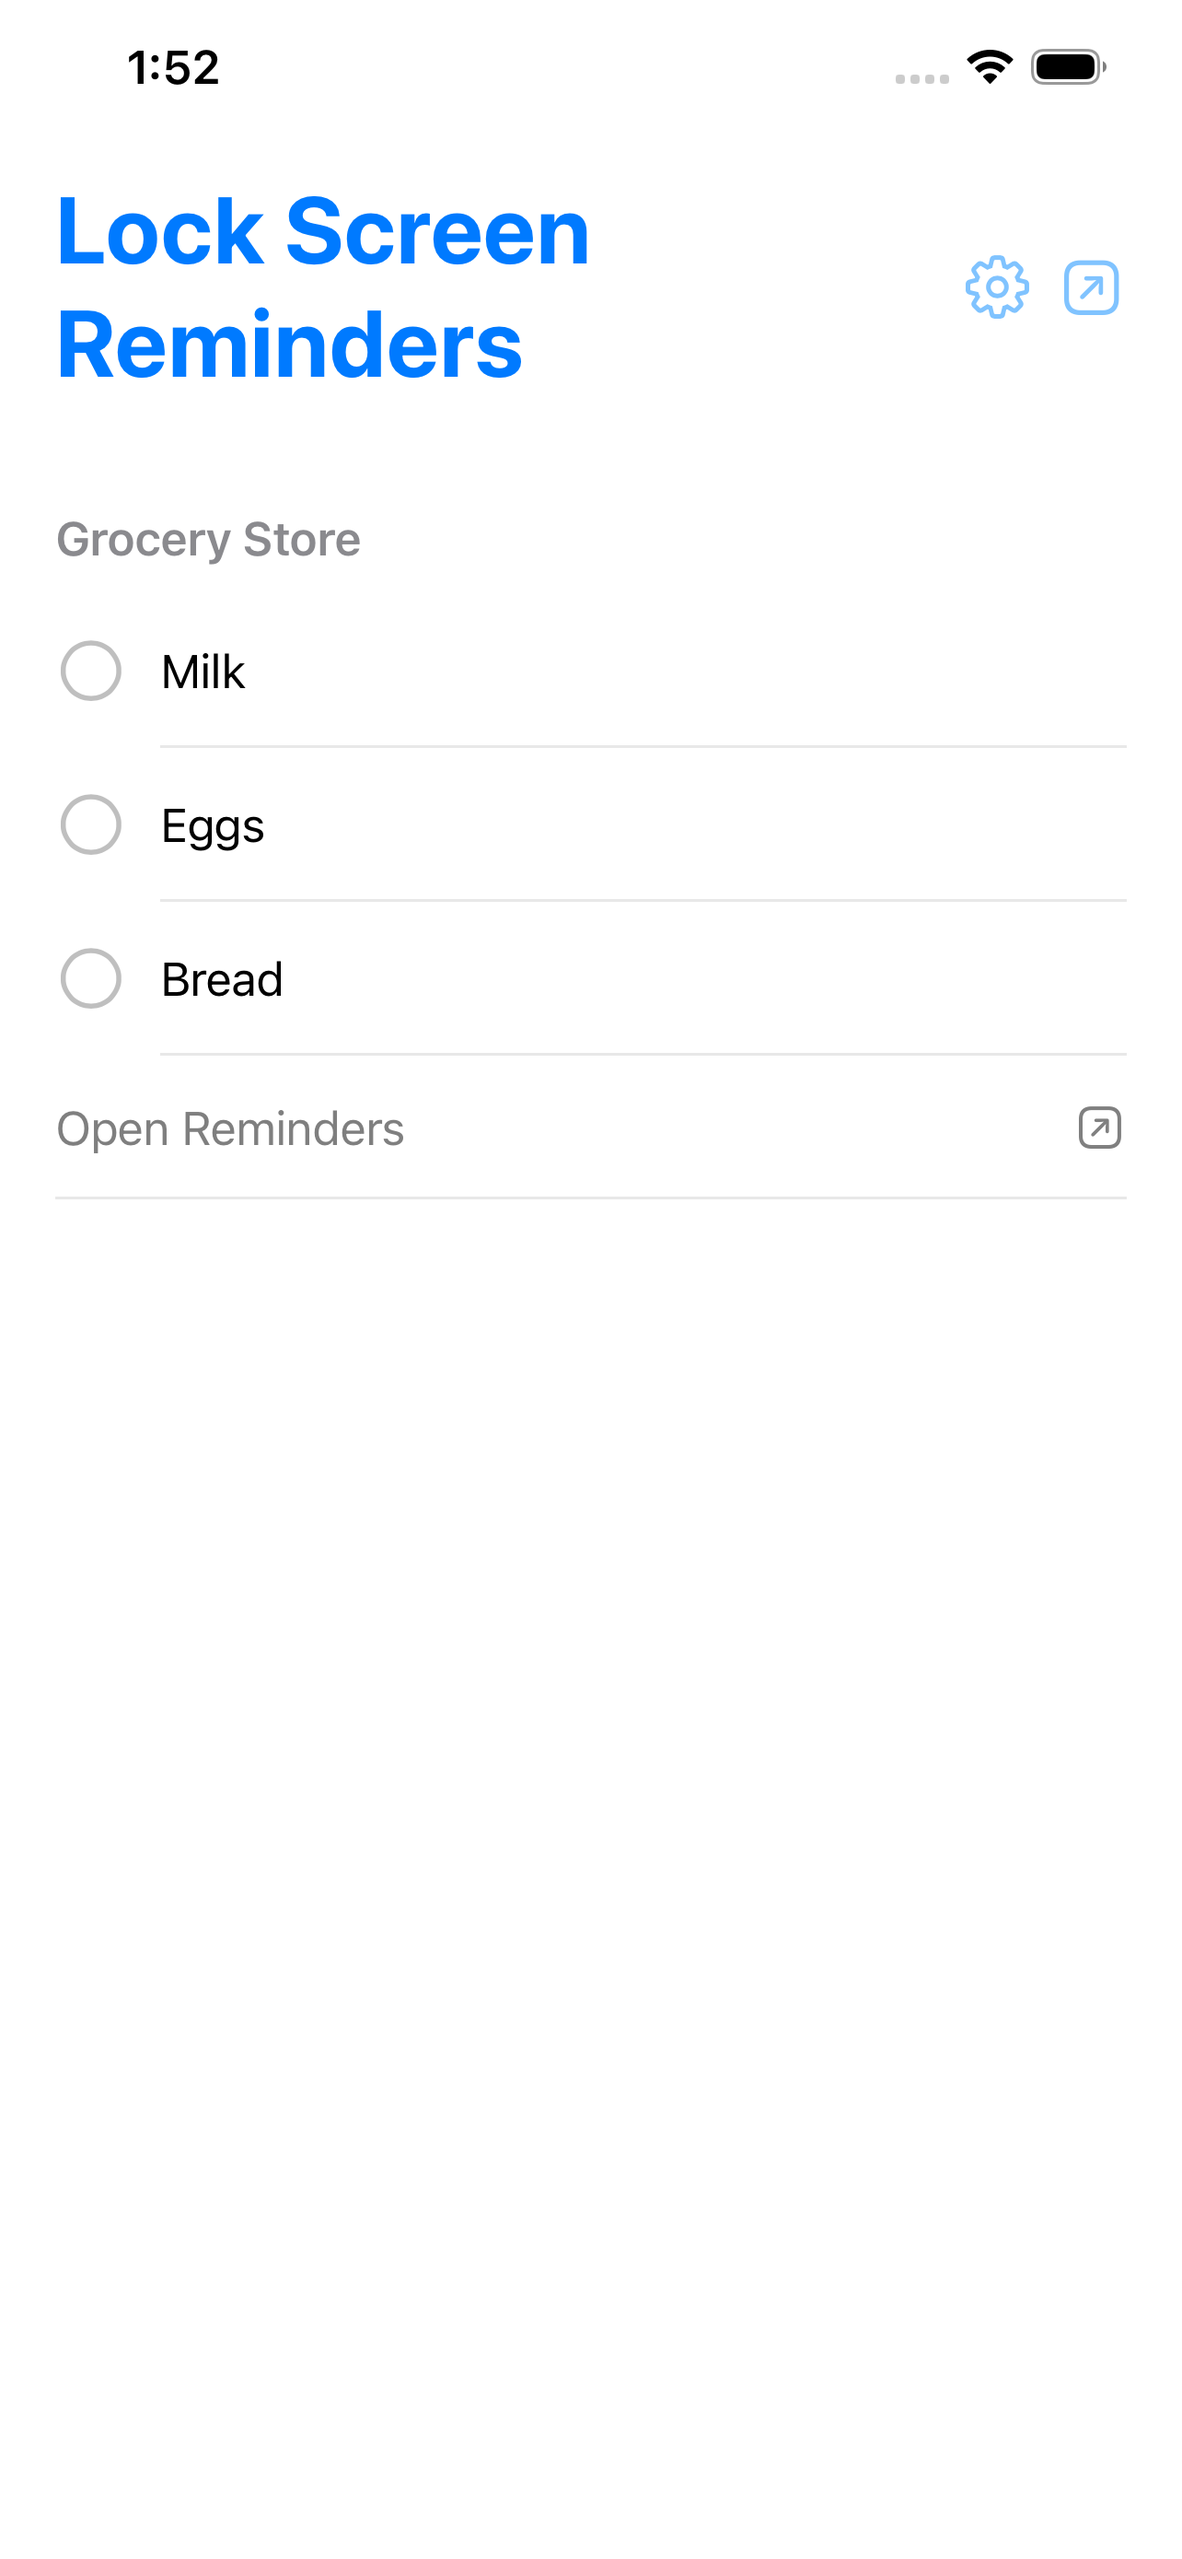
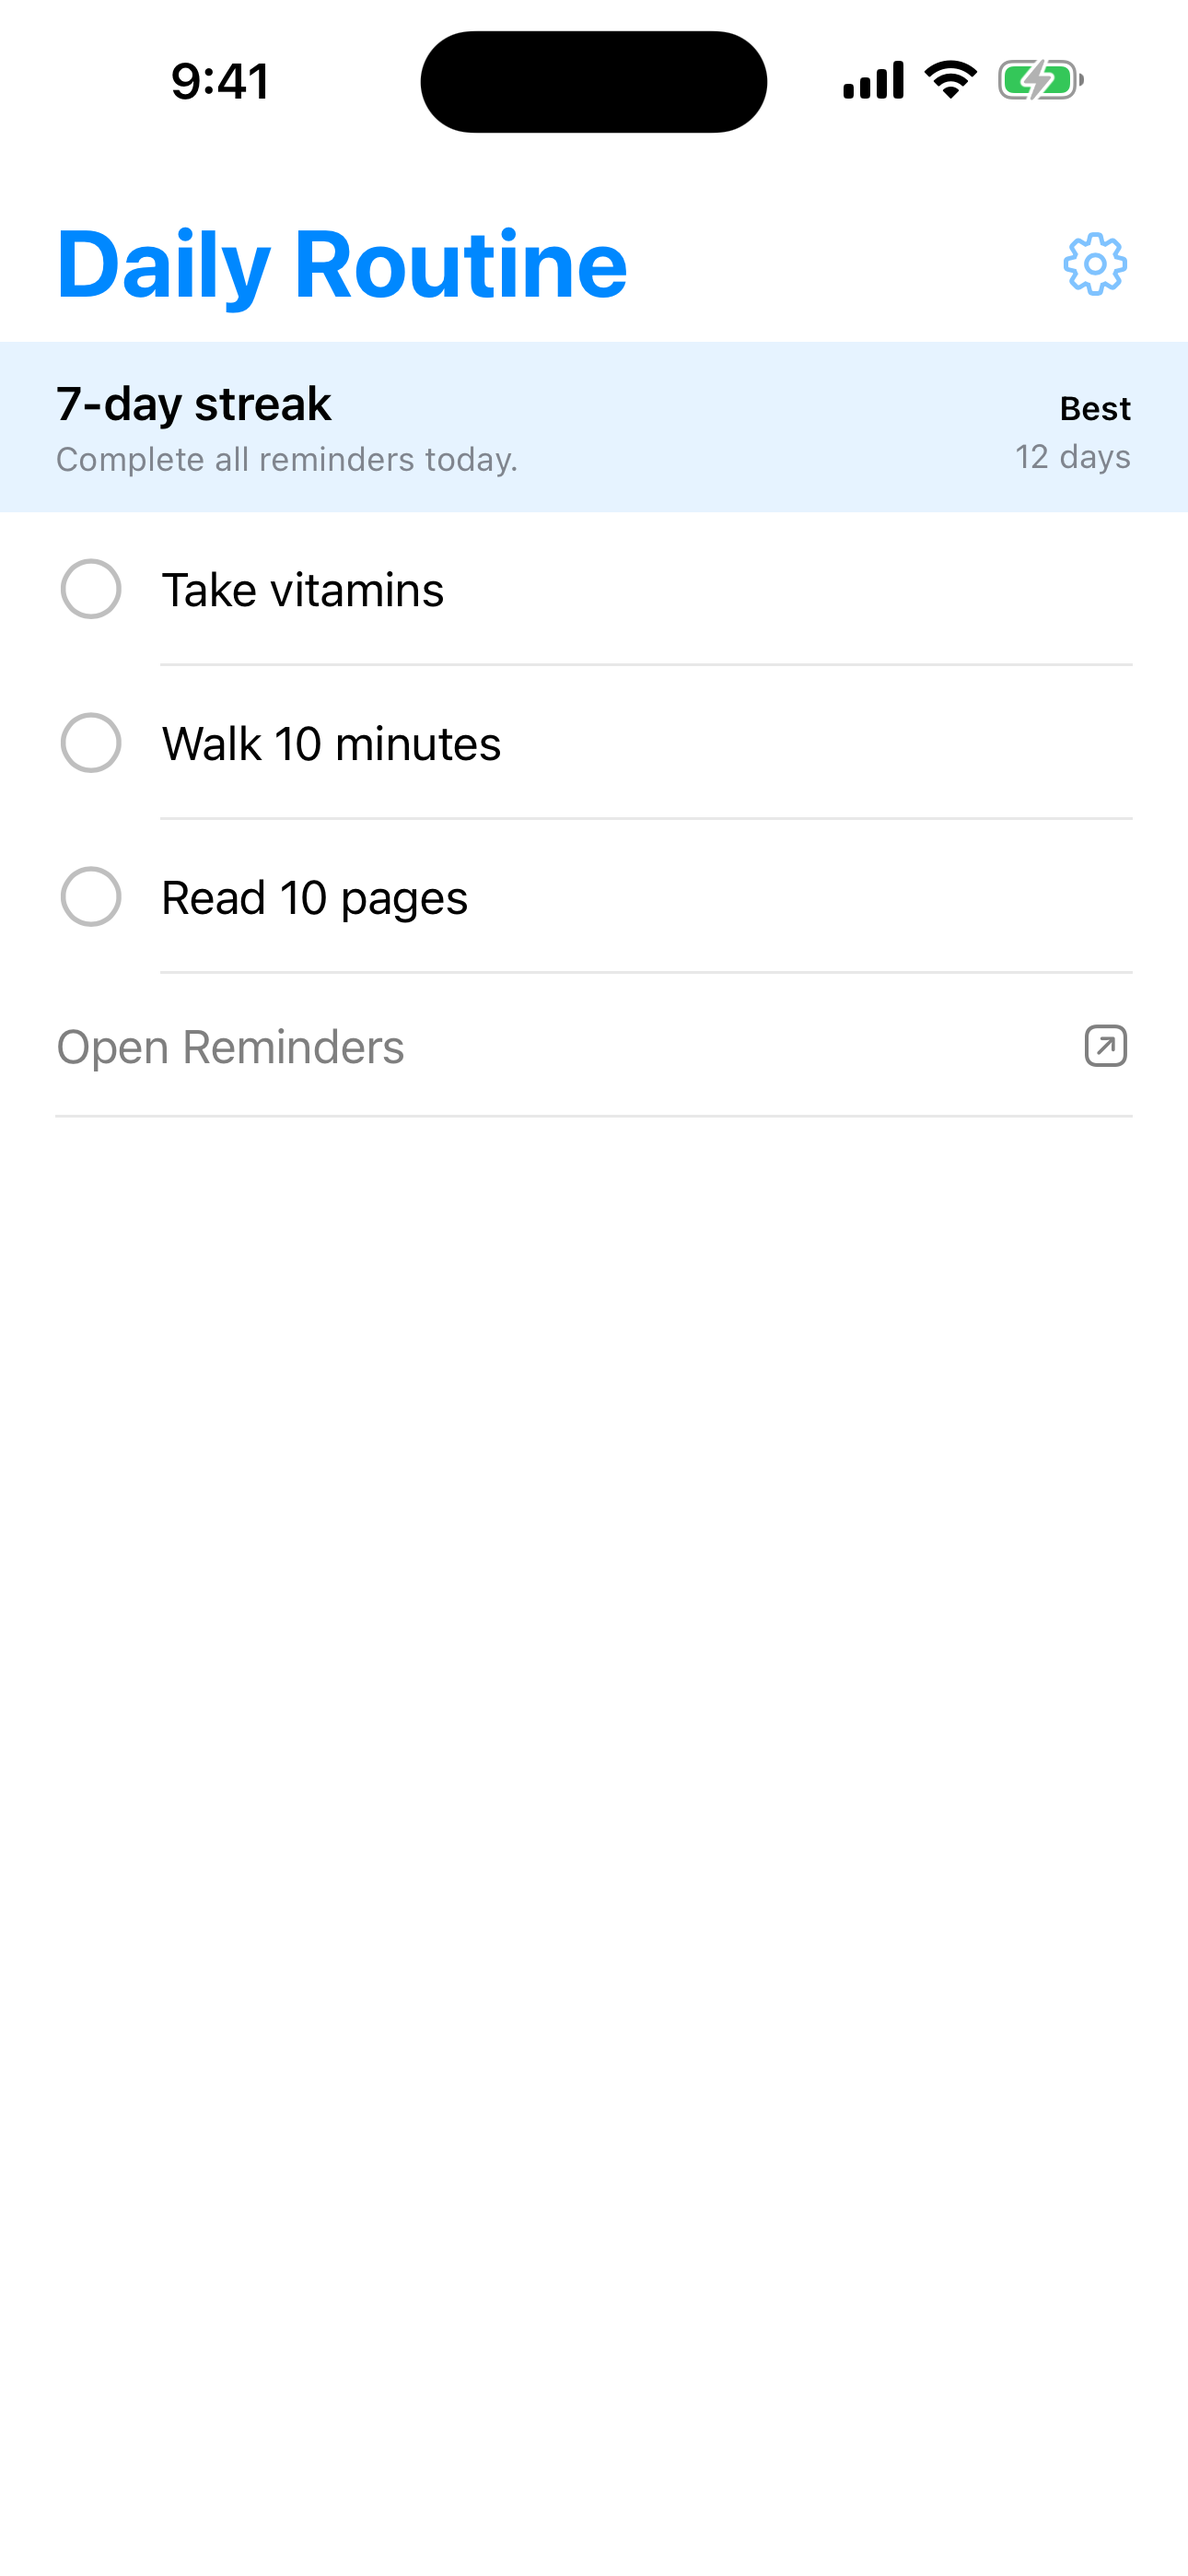
Updated settings screen and screenshots (#6)
* Update settings screen and screenshots

* Update screenshots and docs

diff --git a/RemindersWidget/ReminderDetailView.swift b/RemindersWidget/ReminderDetailView.swift
@@ -40,7 +40,7 @@ struct ReminderDetailView: View {
         .onChange(of: streakState.mode) { _, _ in
             // Goal change in settings resets streak state in the store; re-evaluate against
             // the current list contents so the banner doesn't show a stale 0-day streak when
-            // the new mode trivially qualifies today (e.g. switched to Empty List on an
+            // the new mode trivially qualifies today (e.g. switched to Complete All on an
             // already-empty list).
             fetchReminders()
         }
@@ -111,7 +111,7 @@ struct ReminderDetailView: View {
         switch streakState.mode {
         case .noOverdue:
             // Today already implies "due today or overdue", so "all overdue" reads as redundant
-            // there. Phrase it the same as Empty List for the Today list.
+            // there. Phrase it the same as Complete All for the Today list.
             if listID == SelectedListStore.todayID {
                 return "Complete all reminders today."
             }

diff --git a/Shared/Streak.swift b/Shared/Streak.swift
@@ -14,7 +14,7 @@ enum StreakMode: String, CaseIterable, Identifiable {
         case .dailyProgress:
             return "Daily Progress"
         case .emptyList:
-            return "Empty List"
+            return "Complete All"
         }
     }
 
@@ -30,7 +30,7 @@ enum StreakMode: String, CaseIterable, Identifiable {
     }
 
     // The Today list is a synthetic cross-calendar view: list membership is implicit and
-    // can't be reconstructed for past days. The Daily Progress and Empty List modes both
+    // can't be reconstructed for past days. The Daily Progress and Complete All modes both
     // depend on per-day membership, so they're disabled for Today. No Overdue only depends
     // on each reminder's dueDate vs day boundary, which is well-defined cross-calendar.
     static func availableModes(forListID listID: String?) -> [StreakMode] {

diff --git a/RemindersWidget/ContentView.swift b/RemindersWidget/ContentView.swift
@@ -110,14 +110,6 @@ struct ContentView: View {
     private var settingsSheet: some View {
         NavigationStack {
             VStack(spacing: 24) {
-                Spacer()
-
-                ReminderListIcon()
-
-                Text("Lock Screen Reminders")
-                    .font(.largeTitle)
-                    .fontWeight(.bold)
-
                 Group {
                     switch authStatus {
                     case .fullAccess:
@@ -132,8 +124,10 @@ struct ContentView: View {
                 .padding(.horizontal, 32)
 
                 Spacer()
-                Spacer()
             }
+            .padding(.top, 24)
+            .navigationTitle("Settings")
+            .navigationBarTitleDisplayMode(.inline)
             .toolbar {
                 ToolbarItem(placement: .topBarTrailing) {
                     Button("Done") {

diff --git a/docs/SCREENSHOTS.md b/docs/SCREENSHOTS.md
@@ -1,0 +1,186 @@
+# Screenshot Workflow
+
+Use this when refreshing the screenshots in `docs/`. The full-size screenshots should come from Simulator captures, and the thumbnail files should be generated from those full-size PNGs.
+
+## Screenshot Set
+
+| File | What it shows |
+| --- | --- |
+| `screenshot-lock-screen-6.5.png` | iPhone Lock Screen with the widget |
+| `screenshot-list-view-6.5.png` | iPhone app list view |
+| `screenshot-list-selection-6.5.png` | iPhone settings sheet |
+| `screenshot-lock-screen-ipad-13.png` | iPad Lock Screen with the widget |
+| `screenshot-list-view-ipad-13.png` | iPad app list view |
+| `screenshot-list-selection-ipad-13.png` | iPad settings sheet |
+| `screenshot-*-thumb.png` | Website thumbnails generated from the iPhone full-size screenshots |
+
+The `6.5` filenames are historical. Keep the filenames stable unless the website code changes too.
+
+## Sample Data
+
+Use habit-style reminders so the streak feature makes sense:
+
+- List: `Daily Routine`
+- Reminders:
+  - `Take vitamins`
+  - `Walk 10 minutes`
+  - `Read 10 pages`
+- Streak goal: `Complete All`
+- Screenshot streak state: `7-day streak`, best `12 days`, with today's reminders still pending
+
+## Setup
+
+Use Xcode's developer directory explicitly if this shell points at Command Line Tools:
+
+```bash
+export DEVELOPER_DIR=/Applications/Xcode.app/Contents/Developer
+xcodegen generate
+```
+
+Use an iPhone Plus/Pro Max simulator for the phone screenshots and an iPad Pro 13-inch simulator for the iPad screenshots. Current good choices are:
+
+- `iPhone 16 Plus`
+- `iPad Pro 13-inch (M5)`
+
+Find exact device IDs with:
+
+```bash
+xcrun simctl list devices available
+```
+
+Set variables for the rest of the commands:
+
+```bash
+PHONE="<iPhone simulator UUID>"
+IPAD="<iPad simulator UUID>"
+APP_ID="com.brianpattison.RemindersWidget"
+```
+
+Boot the devices, grant Reminders access, and make the status bars deterministic:
+
+```bash
+xcrun simctl boot "$PHONE" || true
+xcrun simctl boot "$IPAD" || true
+xcrun simctl privacy "$PHONE" grant reminders "$APP_ID"
+xcrun simctl privacy "$IPAD" grant reminders "$APP_ID"
+
+xcrun simctl status_bar "$PHONE" override \
+  --time 9:41 \
+  --batteryState charged --batteryLevel 100 \
+  --wifiBars 3 --cellularBars 4
+
+xcrun simctl status_bar "$IPAD" override \
+  --time 9:41 \
+  --batteryState charged --batteryLevel 100 \
+  --wifiBars 3 --cellularBars 4
+```
+
+Build and install the app:
+
+```bash
+DD=/tmp/RemindersWidgetScreenshotsDD
+xcodebuild build -scheme RemindersWidget -destination "id=$PHONE" -derivedDataPath "$DD" -quiet
+APP="$DD/Build/Products/Debug-iphonesimulator/RemindersWidget.app"
+xcrun simctl install "$PHONE" "$APP"
+xcrun simctl install "$IPAD" "$APP"
+```
+
+## Seed The Simulator
+
+The simplest reliable path is manual setup in Simulator:
+
+1. Open Reminders in each simulator.
+2. Create the `Daily Routine` list.
+3. Add the three reminders listed above.
+4. Launch `Lock Screen`.
+5. In the app settings sheet, choose `Daily Routine`.
+6. Set the streak goal to `Complete All`.
+
+After selecting the list, set the streak defaults so the app shows `7-day streak` on launch. `Complete All` still uses the stored raw value `emptyList`. Run this once per device:
+
+```bash
+DEVICE="$PHONE" # then repeat with DEVICE="$IPAD"
+GROUP=$(xcrun simctl get_app_container "$DEVICE" "$APP_ID" groups | awk '/group.com.brianpattison.RemindersWidget/{print $2}')
+PREF="$GROUP/Library/Preferences/group.com.brianpattison.RemindersWidget.plist"
+LIST_ID=$(/usr/libexec/PlistBuddy -c "Print :selectedListID" "$PREF")
+YESTERDAY=$(date -v-1d -v0H -v0M -v0S +%s)
+
+/usr/libexec/PlistBuddy -c "Set :streakMode emptyList" "$PREF" 2>/dev/null || /usr/libexec/PlistBuddy -c "Add :streakMode string emptyList" "$PREF"
+/usr/libexec/PlistBuddy -c "Set :streakListID $LIST_ID" "$PREF" 2>/dev/null || /usr/libexec/PlistBuddy -c "Add :streakListID string $LIST_ID" "$PREF"
+/usr/libexec/PlistBuddy -c "Set :streakCurrentCount 7" "$PREF" 2>/dev/null || /usr/libexec/PlistBuddy -c "Add :streakCurrentCount integer 7" "$PREF"
+/usr/libexec/PlistBuddy -c "Set :streakBestCount 12" "$PREF" 2>/dev/null || /usr/libexec/PlistBuddy -c "Add :streakBestCount integer 12" "$PREF"
+/usr/libexec/PlistBuddy -c "Set :streakLastQualifiedDay $YESTERDAY" "$PREF" 2>/dev/null || /usr/libexec/PlistBuddy -c "Add :streakLastQualifiedDay real $YESTERDAY" "$PREF"
+```
+
+The app should keep the `7-day streak` count and show `Complete all reminders today.` until the sample reminders are completed.
+
+## Capture App Screens
+
+Launch normally for the list view:
+
+```bash
+xcrun simctl launch --terminate-running-process "$PHONE" "$APP_ID"
+sleep 2
+xcrun simctl io "$PHONE" screenshot docs/screenshot-list-view-6.5.png
+
+xcrun simctl launch --terminate-running-process "$IPAD" "$APP_ID"
+sleep 2
+xcrun simctl io "$IPAD" screenshot docs/screenshot-list-view-ipad-13.png
+```
+
+For the settings screenshots, open the app and tap the gear button, then capture:
+
+```bash
+xcrun simctl io "$PHONE" screenshot docs/screenshot-list-selection-6.5.png
+xcrun simctl io "$IPAD" screenshot docs/screenshot-list-selection-ipad-13.png
+```
+
+## Capture Lock Screen Screens
+
+Use the same seeded device and selected list.
+
+1. Lock the simulator from Simulator's toolbar or Device menu.
+2. Long-press the Lock Screen.
+3. Tap `Customize`, choose the Lock Screen, and add the Reminders widget below the clock.
+4. Make sure the widget shows the three `Daily Routine` reminders.
+5. Capture:
+
+```bash
+xcrun simctl io "$PHONE" screenshot docs/screenshot-lock-screen-6.5.png
+xcrun simctl io "$IPAD" screenshot docs/screenshot-lock-screen-ipad-13.png
+```
+
+If the widget shows stale data, open the app, reselect the list, wait a few seconds, and return to the Lock Screen.
+
+## Generate Thumbnails
+
+Generate thumbnails only from the iPhone full-size images:
+
+```bash
+python3 - <<'PY'
+from PIL import Image
+
+pairs = [
+    ("docs/screenshot-lock-screen-6.5.png", "docs/screenshot-lock-screen-thumb.png"),
+    ("docs/screenshot-list-view-6.5.png", "docs/screenshot-list-view-thumb.png"),
+    ("docs/screenshot-list-selection-6.5.png", "docs/screenshot-list-selection-thumb.png"),
+]
+
+for src, dst in pairs:
+    image = Image.open(src).convert("RGB")
+    image = image.resize((360, 779), Image.Resampling.LANCZOS)
+    image.save(dst, optimize=True)
+PY
+```
+
+## Verify
+
+Check dimensions and build before finishing:
+
+```bash
+sips -g pixelWidth -g pixelHeight docs/*.png
+xcodebuild build -scheme RemindersWidget -destination "id=$PHONE" -quiet
+git status --short
+```
+
+Expected thumbnail size is `360 x 779`. The iPad screenshots should be `2064 x 2752`. Phone screenshot dimensions may vary by the simulator used; keep them as direct Simulator output and do not stretch them.

diff --git a/docs/app-store-submission.md b/docs/app-store-submission.md
@@ -42,7 +42,7 @@ WHAT YOU GET
 - A Lock Screen widget that displays 3 reminders instead of 2.
 - Choose which Reminders list to show from inside the app.
 - View and complete reminders from the selected list in a focused native app.
-- Track a configurable streak: No Overdue, Daily Progress, or Empty List.
+- Track a configurable streak: No Overdue, Daily Progress, or Complete All.
 - Tap the widget to open the Reminders app -- no accidental completions.
 - Clean design that matches the native iOS look.
 - Reminders are sorted by due date, then by creation date, so the most urgent items show first.
@@ -149,7 +149,7 @@ Since this is a Lock Screen widget app with a useful host app, screenshots shoul
 
 **Screenshot 1 -- The Widget in Action**
 - Show an iPhone Lock Screen with the Reminders Widget visible in the widget area below the clock.
-- The widget should display 3 reminders from a realistic-looking list (e.g., "Grocery Store" with items like "Milk," "Eggs," "Bread").
+- The widget should display 3 reminders from a realistic-looking habit list (e.g., "Daily Routine" with items like "Take vitamins," "Walk 10 minutes," and "Read 10 pages").
 - This is your hero screenshot. It should immediately communicate what the app does.
 - Consider adding a brief overlay caption: "See 3 reminders on your Lock Screen"
 
@@ -309,7 +309,7 @@ You will come back to this after uploading a build (Step 7).
    This app provides a native selected-list companion app and Lock Screen widget for Reminders. To test:
    1. Open the app and grant Reminders access.
    2. Choose a Reminders list in the app.
-   3. View the selected list in the app, tap a reminder circle to complete it, and use Settings to choose a streak goal: No Overdue, Daily Progress, or Empty List.
+   3. View the selected list in the app, tap a reminder circle to complete it, and use Settings to choose a streak goal: No Overdue, Daily Progress, or Complete All.
    4. Go to the Lock Screen, long-press, tap Customize, choose Lock Screen, tap Add Widgets.
    5. Find "Reminders Widget" in the widget list and add the rectangular widget.
    The widget will display 3 reminders from the list selected in the app. Tapping the widget opens the Reminders app.

diff --git a/AGENTS.md b/AGENTS.md
@@ -40,3 +40,7 @@ Two targets in one Xcode project:
 # Generate the app icon (requires numpy and Pillow)
 python3 generate_icon.py AppIcon.png
 ```
+
+## Docs Screenshots
+
+When updating `docs/screenshot-*.png`, follow the detailed workflow in `docs/SCREENSHOTS.md`. It documents the sample Reminders data, Simulator setup, capture filenames, dimension checks, and thumbnail generation command.
